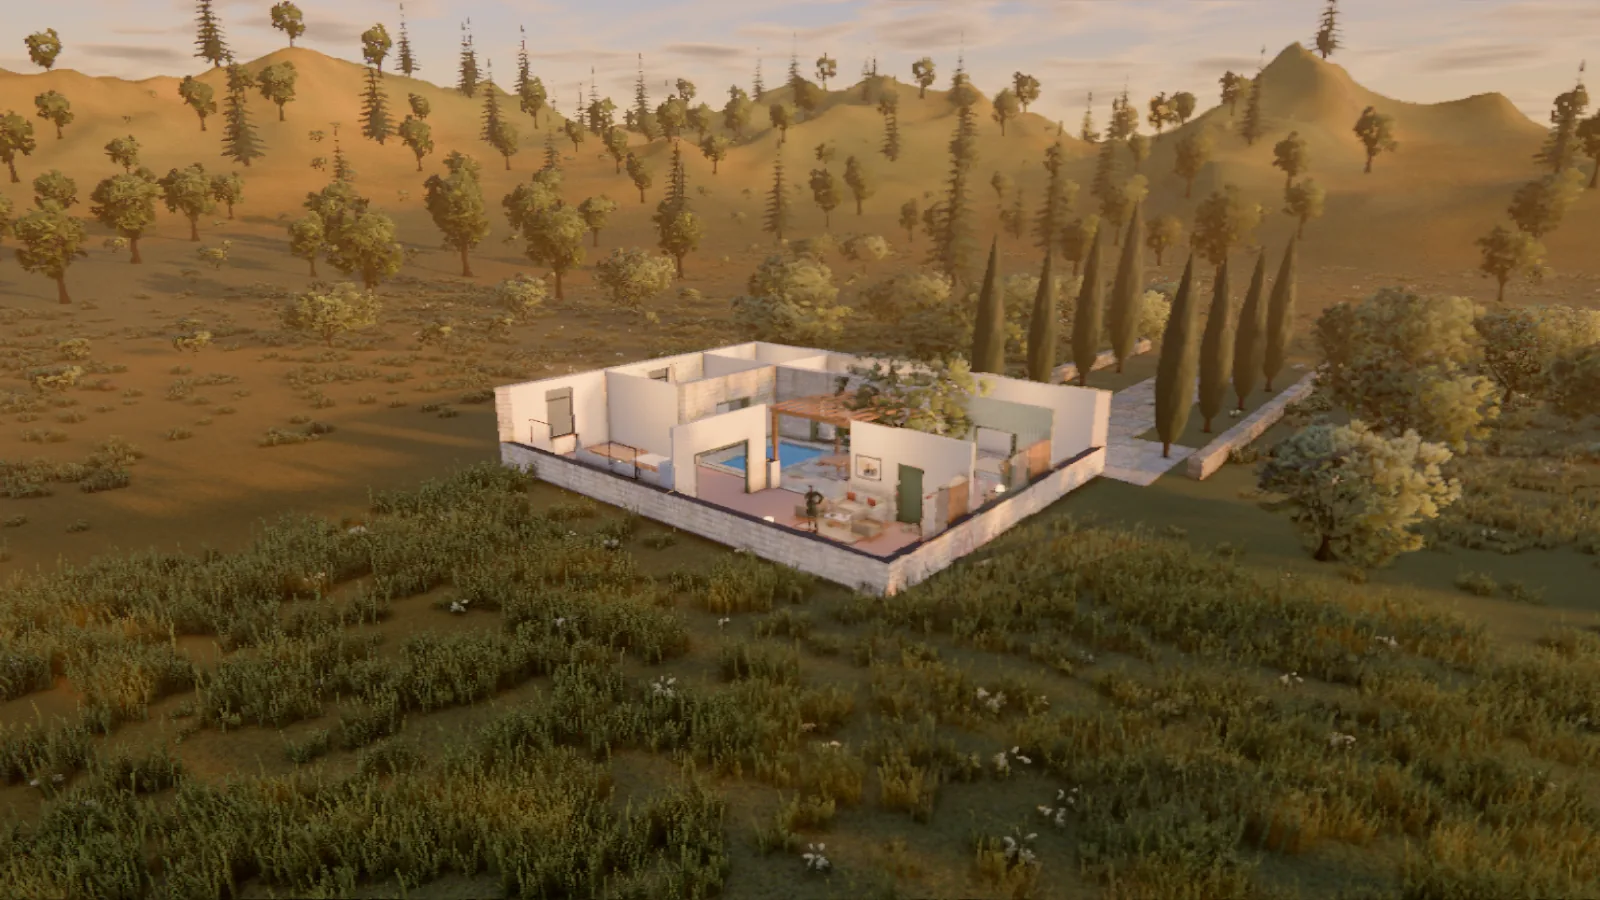
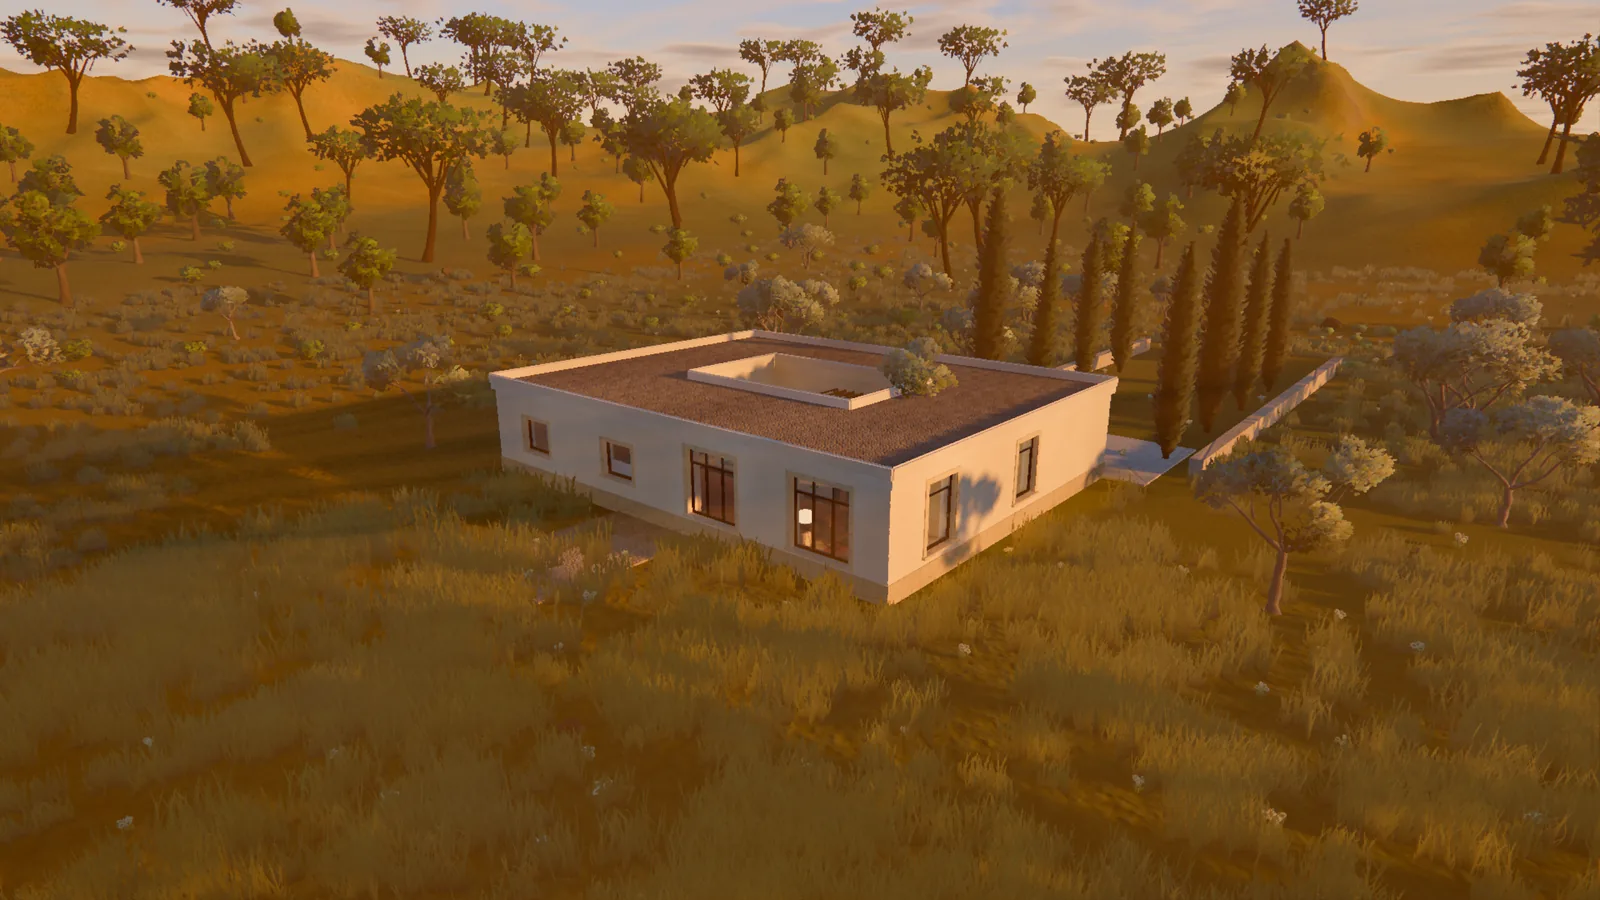
README gallery matches the Featured list (eleven, in order; the rest in the fold-out), new covers for Cloudwatch Harbour, Lisbon Hills, Starlight Cinema and Evening Bistro, re-rendered Casa del Patio and Sanctuary Falls; hero GIF is now a Sanctuary Falls tour

diff --git a/README.md b/README.md
@@ -18,11 +18,12 @@
 
 <p align="center">
   <a href="https://github.com/StarAtNyte/aether/releases/tag/v0.1.0">
-    <img src="docs/screenshots/tour-sanctuary-terraces.gif" width="100%" alt="A cinematic tour of Sanctuary Terraces, rendered in real time in the browser">
+    <img src="docs/screenshots/tour-sanctuary-falls.gif" width="100%" alt="A cinematic tour of Sanctuary Falls, rendered in real time in the browser on an NVIDIA RTX 4090">
   </a>
   <br>
-  <sub>Sanctuary Terraces, built by the agent (Claude Code): the studio's cinematic tour, recorded in real time on an
-  Intel integrated GPU at ultra quality. Click for the two-minute demo video.</sub>
+  <sub>Sanctuary Falls, built by the agent (Claude Code): the studio's cinematic tour (first 11 s), screen-recorded in
+  headless Chrome (WebGL2 over ANGLE) on an NVIDIA RTX 4090 at ultra quality, then cut to a 6 fps GIF. Click for the
+  two-minute demo video.</sub>
 </p>
 
 <p align="center">
@@ -143,22 +144,45 @@ crafted parts: venues, streets, harbours, seven regional house types, gyms, clin
 
 ## Gallery
 
-Fifteen featured projects ship with the studio and open from the home page.
+Eleven featured projects ship with the studio and open from the home page.
 Each was built from the prompt on its card. Each passes its physics checks,
 and the bot plays the games to their win screens in the test suite. Blockfall
 and Sakura River are the exceptions: they use their own game loops, which the
-general bot does not drive. Five larger **big worlds** show the renderer at scale: hundreds to thousands of objects,
+general bot does not drive. Several larger **big worlds** show the renderer at scale: hundreds to thousands of objects,
 furnished interiors, waterfalls and whole towns, smooth on a laptop's integrated GPU.
 
 <table>
   <tr>
-    <td width="33%" valign="top"><img src="docs/screenshots/showcase/sanctuary-terraces.webp" width="100%" alt="Sanctuary Terraces"><br><b>Sanctuary Terraces</b><br><sub>A hill town on limestone terraces, waterfalls into a lagoon, a gilded temple</sub></td>
+    <td width="33%" valign="top"><img src="docs/screenshots/showcase/cloudwatch-harbour.webp" width="100%" alt="Cloudwatch Harbour"><br><b>Cloudwatch Harbour</b><br><sub>An anime short: a harbour town at summer dusk, painted. Watch the film, then step in and play as the character</sub></td>
     <td width="33%" valign="top"><img src="docs/screenshots/showcase/sanctuary-falls.webp" width="100%" alt="Sanctuary Falls"><br><b>Sanctuary Falls</b><br><sub>A marble stair between three waterfalls to a Doric temple</sub></td>
-    <td width="33%" valign="top"><img src="docs/screenshots/showcase/sanctuary-ascent.webp" width="100%" alt="Sanctuary Ascent"><br><b>Sanctuary Ascent</b><br><sub>A zigzag stair up a crag to a colossal Athena, built end to end in hardcore mode</sub></td>
+    <td width="33%" valign="top"><img src="docs/screenshots/showcase/linden-row.webp" width="100%" alt="Linden Row"><br><b>Linden Row</b><br><sub>Ten real family houses round a village green, every room furnished, lit and walkable</sub></td>
   </tr>
   <tr>
-    <td width="33%" valign="top"><img src="docs/screenshots/showcase/linden-row.webp" width="100%" alt="Linden Row"><br><b>Linden Row</b><br><sub>Ten real family houses round a village green, every room furnished, lit and walkable</sub></td>
+    <td width="33%" valign="top"><img src="docs/screenshots/showcase/lisbon-hills.webp" width="100%" alt="Lisbon Hills"><br><b>Lisbon Hills</b><br><sub>A terraced Lisbon hillside to walk: pastel townhouses, cobbled streets and stairs up to a castle, a tram line, a red suspension bridge</sub></td>
+    <td width="33%" valign="top"><img src="docs/screenshots/showcase/desert-citadel.webp" width="100%" alt="Desert Citadel"><br><b>Desert Citadel</b> · <i>asset-free</i><br><sub>A walled oasis town at golden hour, built from scratch by the agent on Opus 5.5: no library models, every piece shapes and code it wrote</sub></td>
+    <td width="33%" valign="top"><img src="docs/screenshots/showcase/dusk-lake-house.webp" width="100%" alt="Dusk House by the Lake"><br><b>Dusk House by the Lake</b><br><sub>Explode it, cut it, walk to the jetty</sub></td>
+  </tr>
+  <tr>
     <td width="33%" valign="top"><img src="docs/screenshots/showcase/kestrel-outpost.webp" width="100%" alt="Kestrel Outpost"><br><b>Kestrel Outpost</b><br><sub>A third-person shooter: hold a cliff-ringed relay against five waves</sub></td>
+    <td width="33%" valign="top"><img src="docs/screenshots/showcase/casa-patio.webp" width="100%" alt="Casa del Patio"><br><b>Casa del Patio</b><br><sub>A courtyard house above Sintra, every drawer opens</sub></td>
+    <td width="33%" valign="top"><img src="docs/screenshots/showcase/skyline-penthouse.webp" width="100%" alt="Skyline Penthouse"><br><b>Skyline Penthouse</b><br><sub>Walk it, switch the lights, change the hour</sub></td>
+  </tr>
+  <tr>
+    <td width="33%" valign="top"><img src="docs/screenshots/showcase/starlight-cinema.webp" width="100%" alt="Starlight Cinema"><br><b>Starlight Cinema</b> · <i>asset-free</i><br><sub>A brick cinema with raked red seating, a screen and stage, a projection booth and a lit lobby</sub></td>
+    <td width="33%" valign="top"><img src="docs/screenshots/showcase/evening-bistro.webp" width="100%" alt="Evening Bistro"><br><b>Evening Bistro</b> · <i>asset-free</i><br><sub>A brick bistro with laid tables, pendant lamps, a bar and a kitchen, lit for the evening</sub></td>
+    <td width="33%" valign="top"></td>
+  </tr>
+</table>
+
+<details>
+<summary><b>Thirteen more worlds, the photo rooms and the agent-generated worlds</b></summary>
+
+<br>
+
+<table>
+  <tr>
+    <td width="33%" valign="top"><img src="docs/screenshots/showcase/sanctuary-terraces.webp" width="100%" alt="Sanctuary Terraces"><br><b>Sanctuary Terraces</b><br><sub>A hill town on limestone terraces, waterfalls into a lagoon, a gilded temple</sub></td>
+    <td width="33%" valign="top"><img src="docs/screenshots/showcase/sanctuary-ascent.webp" width="100%" alt="Sanctuary Ascent"><br><b>Sanctuary Ascent</b><br><sub>A zigzag stair up a crag to a colossal Athena, built end to end in hardcore mode</sub></td>
     <td width="33%" valign="top"><img src="docs/screenshots/showcase/neon-rain-city.webp" width="100%" alt="Neon Rain City"><br><b>Neon Rain City</b><br><sub>A wet downtown at night, find five neon cats</sub></td>
   </tr>
   <tr>
@@ -168,30 +192,17 @@ furnished interiors, waterfalls and whole towns, smooth on a laptop's integrated
   </tr>
   <tr>
     <td width="33%" valign="top"><img src="docs/screenshots/showcase/chain-reaction.webp" width="100%" alt="Chain Reaction"><br><b>Chain Reaction</b><br><sub>Five Rube Goldberg machines, every bounce checked</sub></td>
-    <td width="33%" valign="top"><img src="docs/screenshots/showcase/desert-citadel.webp" width="100%" alt="Desert Citadel"><br><b>Desert Citadel</b> · <i>asset-free</i><br><sub>A walled oasis town at golden hour, built from scratch by the agent on Opus 5.5: no library models, every piece shapes and code it wrote</sub></td>
     <td width="33%" valign="top"><img src="docs/screenshots/showcase/lantern-isles.webp" width="100%" alt="Lantern Isles"><br><b>Lantern Isles</b><br><sub>Find twelve lanterns across floating islands</sub></td>
-  </tr>
-  <tr>
-    <td width="33%" valign="top"><img src="docs/screenshots/showcase/casa-patio.webp" width="100%" alt="Casa del Patio"><br><b>Casa del Patio</b><br><sub>A courtyard house above Sintra, every drawer opens</sub></td>
-    <td width="33%" valign="top"><img src="docs/screenshots/showcase/skyline-penthouse.webp" width="100%" alt="Skyline Penthouse"><br><b>Skyline Penthouse</b><br><sub>Walk it, switch the lights, change the hour</sub></td>
-    <td width="33%" valign="top"><img src="docs/screenshots/showcase/dusk-lake-house.webp" width="100%" alt="Dusk House by the Lake"><br><b>Dusk House by the Lake</b><br><sub>Explode it, cut it, walk to the jetty</sub></td>
-  </tr>
-</table>
-
-<details>
-<summary><b>Five more featured worlds, the photo rooms and the agent-generated worlds</b></summary>
-
-<br>
-
-<table>
-  <tr>
     <td width="33%" valign="top"><img src="docs/screenshots/showcase/hollow-gate.webp" width="100%" alt="The Hollow Gate"><br><b>The Hollow Gate</b><br><sub>Buy the key, slip past the guard, outwit the wolves</sub></td>
+  </tr>
+  <tr>
     <td width="33%" valign="top"><img src="docs/screenshots/showcase/blockfall.webp" width="100%" alt="Blockfall"><br><b>Blockfall</b><br><sub>Mine, craft and survive the night in a block world</sub></td>
     <td width="33%" valign="top"><img src="docs/screenshots/showcase/orbital-lab.webp" width="100%" alt="Orbital Lab"><br><b>Orbital Lab</b><br><sub>Low gravity, five power cells, restart the reactor</sub></td>
+    <td width="33%" valign="top"><img src="docs/screenshots/showcase/painterly-meadow.webp" width="100%" alt="Painterly Meadow"><br><b>Painterly Meadow</b><br><sub>A steam train in a wildflower valley</sub></td>
   </tr>
   <tr>
-    <td width="33%" valign="top"><img src="docs/screenshots/showcase/painterly-meadow.webp" width="100%" alt="Painterly Meadow"><br><b>Painterly Meadow</b><br><sub>A steam train in a wildflower valley</sub></td>
     <td width="33%" valign="top"><img src="docs/screenshots/showcase/four-seasons-garden.webp" width="100%" alt="Four-Seasons Garden"><br><b>Four-Seasons Garden</b><br><sub>Switch seasons with the 1 to 5 keys</sub></td>
+    <td width="33%" valign="top"></td>
     <td width="33%" valign="top"></td>
   </tr>
 </table>
@@ -201,11 +212,11 @@ listed on the Templates page under **Photo to 3D**: a hotel bedroom, a twin room
 bedroom and a vaulted bedroom. The photo credit is on each card. They are saved runs of the photo flow
 (`npm run showcase:photo-rooms`).
 
-Nine worlds the agent generated from a prompt are listed under **Generated by
+Seven more worlds the agent generated from a prompt are listed under **Generated by
 the agent**: a forest lantern hunt, a medieval market village, a modern pool
 house, a two-bedroom apartment and a Scandinavian living room (built by the
-offline planner), and four buildings from live runs: Starlight Cinema (Codex),
-Orion Cinema, Evening Bistro and City Museum (Claude Code). Each card says how
+offline planner), and two buildings from live runs: Orion Cinema and
+City Museum (Claude Code). Starlight Cinema (Codex) and Evening Bistro are featured above. Each card says how
 the world was made and shows its prompt. They are saved exactly as generated,
 open like any template and can be changed by chat.
 
